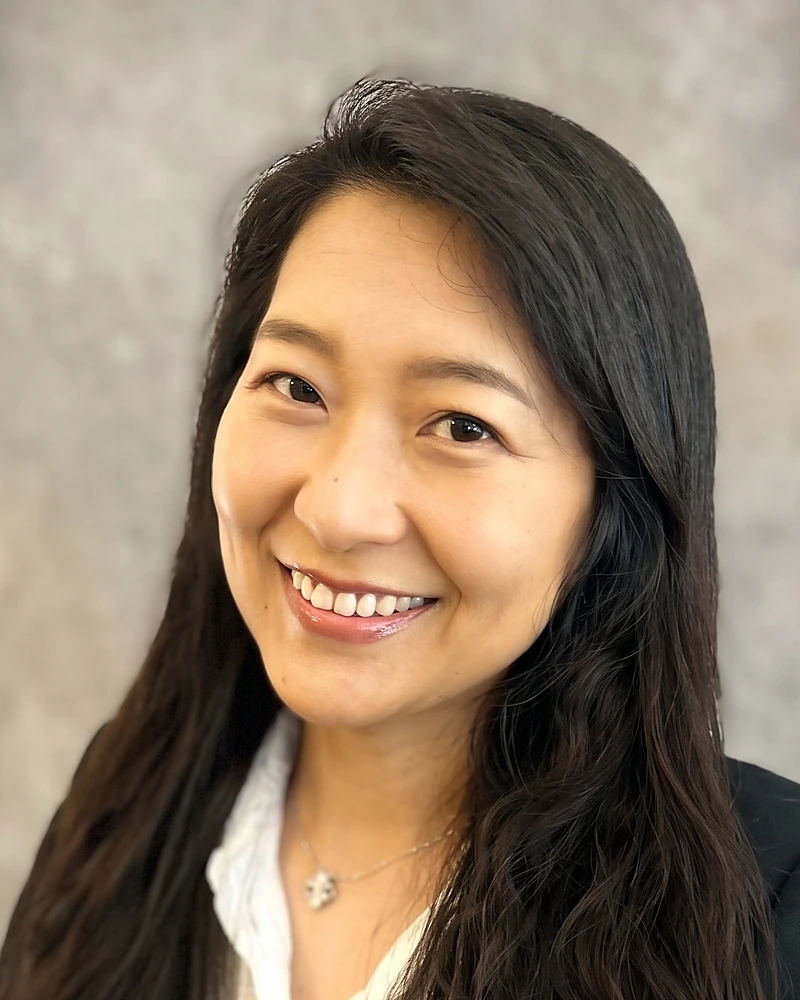
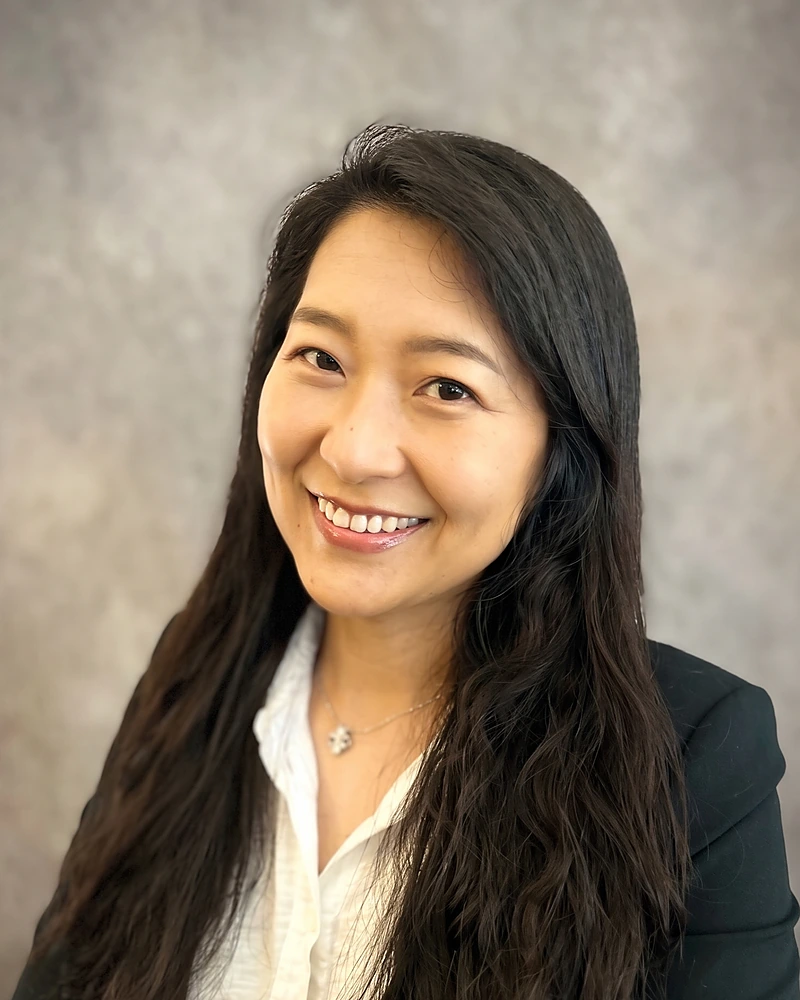
RE founder photo: zoomed out a little (boss)

diff --git a/re/index.html b/re/index.html
@@ -487,7 +487,7 @@
 <section class="killer-section founder-section" id="founder">
   <div class="wrap founder-grid">
     <div class="founder-photo">
-      <img src="/re/img/founder-victoria.webp?v=fb103b9380" width="800" height="1000" alt="Victoria Park, Co-Founder of PracExam" loading="lazy">
+      <img src="/re/img/founder-victoria.webp?v=b225cd833c" width="800" height="1000" alt="Victoria Park, Co-Founder of PracExam" loading="lazy">
     </div>
     <div class="founder-text">
       <span class="killer-eyebrow"><span class="ko">공동 창업자 인사말</span><span class="en">FOUNDER'S MESSAGE</span></span>
